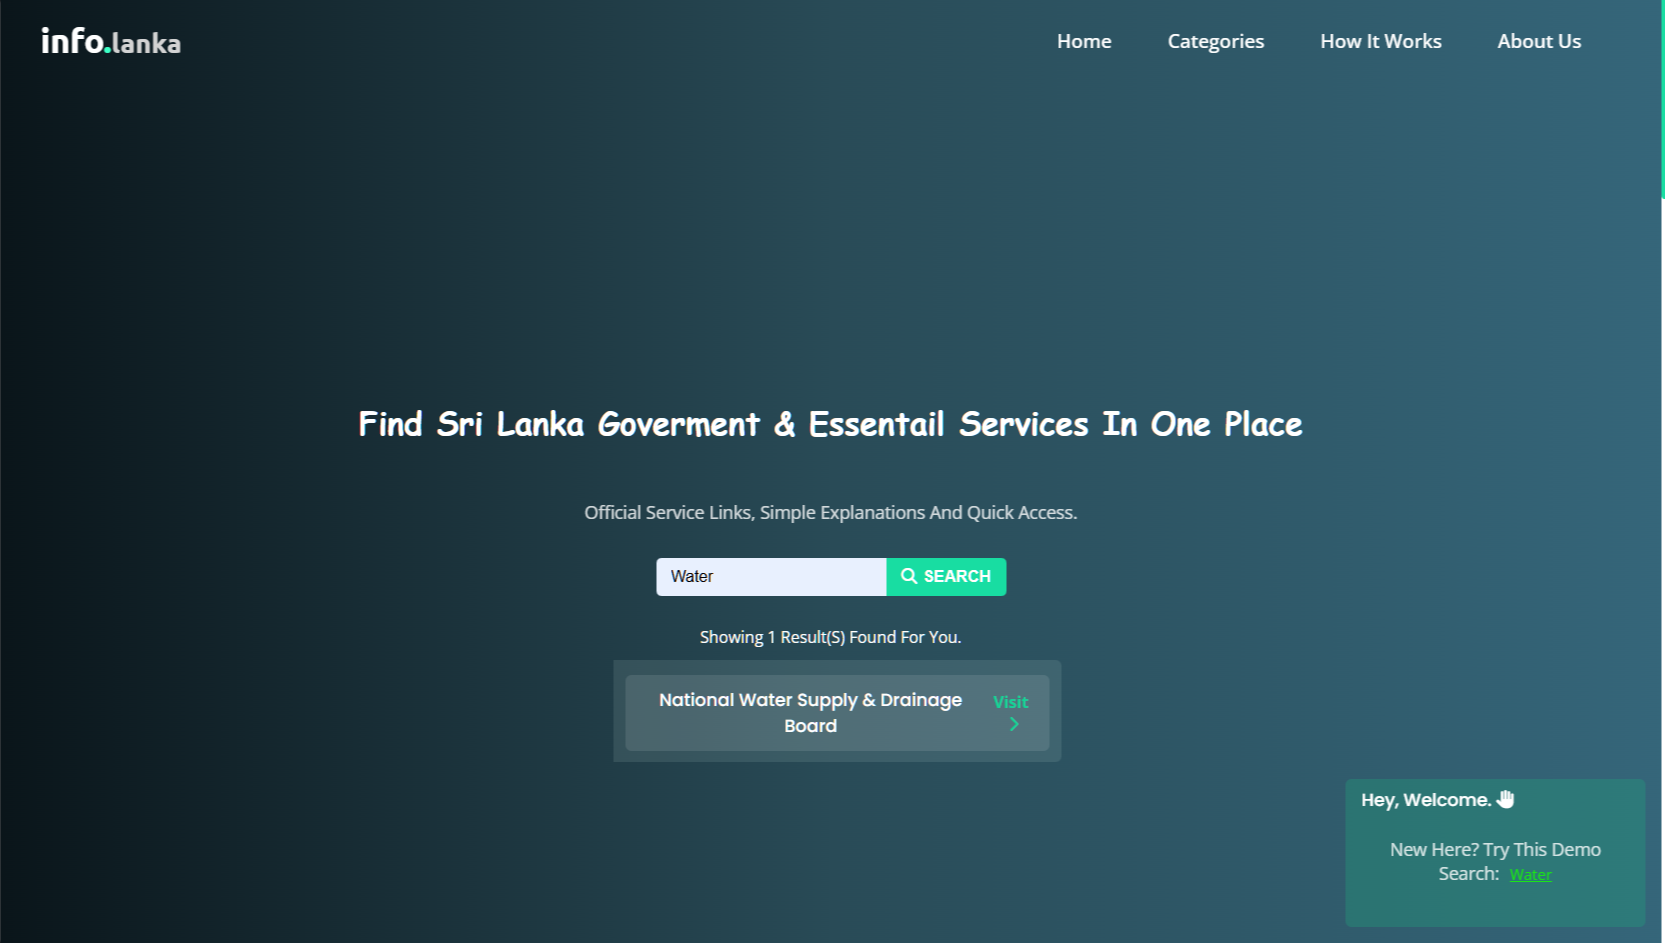
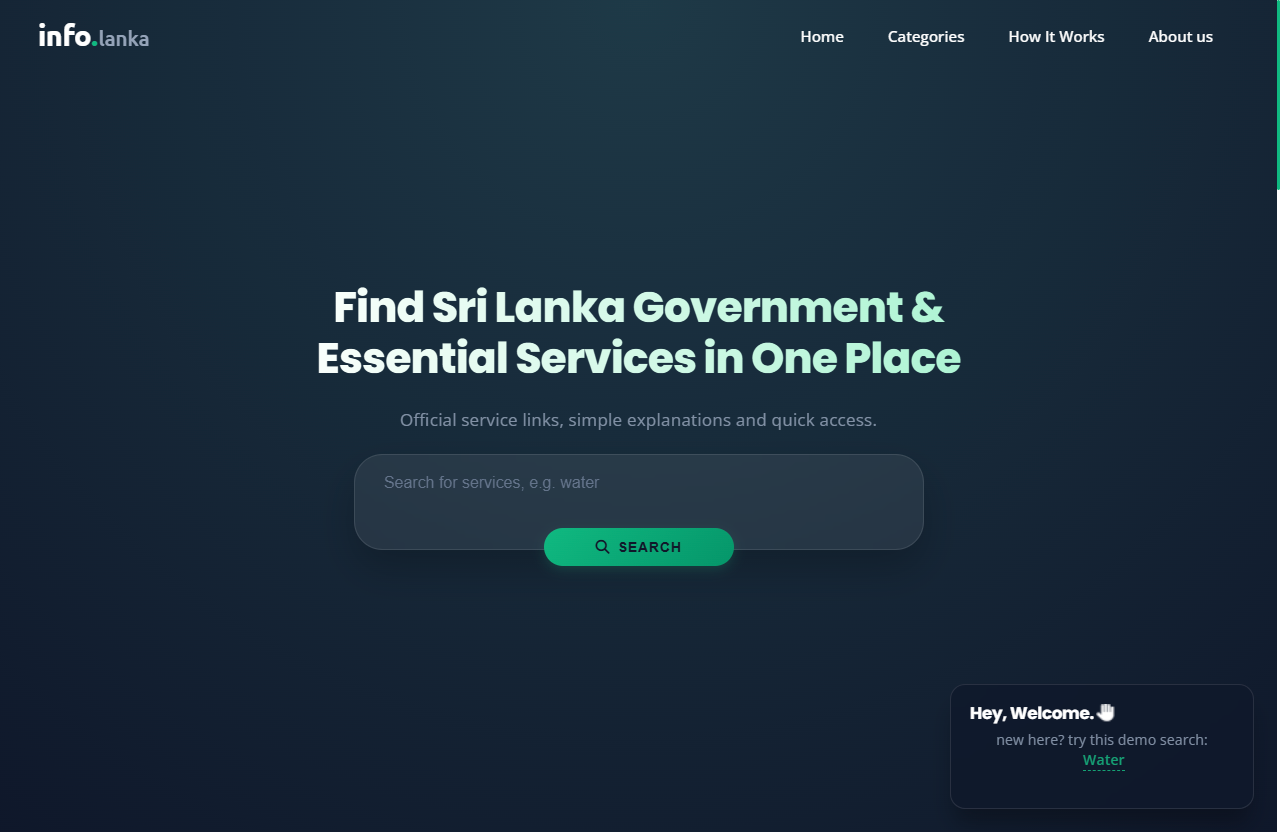
Update new-style.css to enhance organization and remove commented-out code

diff --git a/new-style.css b/new-style.css
@@ -5,7 +5,7 @@
   box-sizing: border-box;
   scroll-behavior: smooth;
   scroll-margin-top: 6rem; /* 2026 Spacing standard */
-  -webkit-font-smoothing: antialiased; /* අකුරු වඩාත් පැහැදිලි කිරීමට */
+  -webkit-font-smoothing: antialiased;
 }
 
 /* selection style */
@@ -32,14 +32,14 @@ body {
   height: auto;
   font-family: "Open Sans", sans-serif;
   font-weight: 400;
-  background-color: #f8fafc; /* පිරිසිදු off-white පසුබිමක් */
+  background-color: #f8fafc;
   color: var(--dark-text);
 }
 
 /* font families */
 h1 {
   font-family: "Ubuntu", sans-serif;
-  font-weight: 800; /* තවත් කැපී පෙනීමට */
+  font-weight: 800;
   letter-spacing: -0.5px;
 }
 h2,
@@ -54,10 +54,10 @@ h4 {
 /* 2026 Refined Root Variables */
 :root {
   --white: #ffffff;
-  --light-grey: #94a3b8; /* වඩාත් පිරිසිදු grey එකක් */
+  --light-grey: #94a3b8;
   --shadow-grey: #e2e8f0;
 
-  --dark-text: #1e293b; /* Soft Dark (ඇසට පහසුයි) */
+  --dark-text: #1e293b;
   --black: #0f172a;
 
   /* Premium Mint Green & Emerald Palette */
@@ -138,7 +138,6 @@ header.scrolled {
 .header-logo h1 {
   font-size: 1.9rem;
   text-transform: lowercase;
-  /* color: var(--blue-dark); */
 }
 .header-logo span {
   color: var(--green-medium);
@@ -239,7 +238,7 @@ header.scrolled {
 }
 
 .navbar-links a:hover::after {
-  width: 30px; /* Hover කරද්දී යටින් ඉරක් ඇඳීම */
+  width: 30px;
 }
 
 /* ==========================================
@@ -256,6 +255,7 @@ header.scrolled {
   padding-bottom: 60px;
   color: var(--white);
   text-align: center;
+
   /* Rich Cinematic Dark Blue-Grey Gradient */
   background: radial-gradient(circle at top, #1e3a47 0%, #0f172a 100%);
   position: relative;
@@ -269,13 +269,14 @@ header.scrolled {
   line-height: 1.2;
   letter-spacing: -1px;
   margin-bottom: 1.5rem;
-  font-family:
-    "Poppins", sans-serif; /* Replaced cursive with a clean professional font */
+  font-family: "Poppins", sans-serif;
   max-width: 800px;
   padding: 0 1.5rem;
+
   /* Text gradient effect */
   background: linear-gradient(to right, #ffffff, #a7f3d0);
   -webkit-background-clip: text;
+  background-clip: text;
   -webkit-text-fill-color: transparent;
 }
 
@@ -353,14 +354,11 @@ header.scrolled {
   align-items: center;
   justify-content: center;
   box-shadow: 0 4px 12px rgba(16, 185, 129, 0.2);
-
-  /* .search-section button { */
   height: 40px;
   width: 200px;
   margin: 0 auto;
   position: relative;
   top: 1.5rem;
-  /* } */
 }
 
 .search-section button:hover {
@@ -394,6 +392,7 @@ header.scrolled {
   align-items: flex-start;
   box-shadow: 0 20px 25px -5px rgba(0, 0, 0, 0.3);
   z-index: 999;
+
   /* Smooth entry animation */
   animation: popupSlideIn 0.5s cubic-bezier(0.34, 1.56, 0.64, 1) forwards;
 }
@@ -582,21 +581,15 @@ section h1 {
     0 10px 30px -10px rgba(148, 163, 184, 0.12),
     0 1px 3px rgba(148, 163, 184, 0.05);
   cursor: pointer;
-  transition: all 0.4s cubic-bezier(0.4, 0, 0.2, 1); /* Premium smooth interaction */
-  /* border-left: 6px solid var(--green-medium); Sleeker and cleaner accent line */
+  transition: all 0.4s cubic-bezier(0.4, 0, 0.2, 1);
   border-top: 1px solid #f1f5f9;
   border-right: 1px solid #f1f5f9;
   border-bottom: 1px solid #e2e8f0;
   position: relative;
-  /* max-height: 280px; */
   height: 100%;
 
-  /* Modern Hover Lift & Subtle Glow Effect */
   &:hover {
     transform: translateY(-5px);
-    /* box-shadow: 0 20px 40px -15px rgba(16, 185, 129, 0.15); */
-    /* border-left-color: var(--green-light); */
-    /* border: 2px solid var(--blue-light); */
   }
 
   h3 {
@@ -665,7 +658,6 @@ section h1 {
 .how-it-card {
   h4 {
     text-align: left;
-    /* margin: 20px 0 10px 0; */
     color: var(--blue-dark);
     border-top: 1px dashed #e2e8f0; /* Cleaner separator */
     padding-top: 6px;
@@ -710,57 +702,16 @@ section h1 {
   }
 }
 
-/* ==========================================================
-   2026 Responsive Bento Grid Breakpoints (Desktop/Tablet)
-   ========================================================== */
-/* @media (min-width: 768px) {
-  .why-this-cards {
-    grid-template-columns: repeat(2, 1fr); /* 2x2 Clean layout for Tablet/PC 
-  }
-
-  .how-it-cards {
-    grid-template-columns: repeat(3, 1fr);
-  }
-
-  /* Spanning the massive Suggested Tags card fully across the bottom row 
-  .how-it-cards .how-it-card:nth-child(4) {
-    grid-column: 1 / -1;
-    margin-top: 12px;
-  }
-}
-
-@media (min-width: 992px) {
-  /* Asymmetric Bento Layout for Why Choose Us section on high-end screens 
-  .why-this-cards {
-    grid-template-columns: repeat(3, 1fr);
-
-    .why-this-card:nth-child(1) {
-      grid-column: span 2; /* First card becomes double wide 
-    }
-    .why-this-card:nth-child(4) {
-      grid-column: span 2; /* Last card becomes double wide creating the bento wave 
-    }
-  }
-}
-
-footer  */
-/* ==========================================
-   2026 Modern Floating Island Footer
-   ========================================== */
 footer {
   /* Rich Luxurious Dark Gradient */
   background: linear-gradient(135deg, #091115 0%, #0f1f26 50%, #152932 100%);
-  /* margin: 1.5rem; Creating the floating desktop separation effect */
   padding: 5rem 2rem;
-  /* border-radius: 24px; Curved modern island edges */
-  border: 1px solid rgba(255, 255, 255, 0.05); /* Soft premium outer glow */
+  border: 1px solid rgba(255, 255, 255, 0.05);
   box-shadow: 0 25px 50px -12px rgba(0, 0, 0, 0.4);
 }
 
 /* Intelligent Responsive Grid Structure */
 .footer-container {
-  /* display: grid;
-  grid-template-columns: repeat(auto-fit, minmax(220px, 1fr)); */
   gap: 2.5rem;
   padding: 0;
   margin: 0;
@@ -772,9 +723,8 @@ footer {
 
 /* Expanding the main information panel to look premium */
 .footer-top {
-  grid-column: 1 / -1; /* spans across full width on top */
+  grid-column: 1 / -1;
   margin-bottom: 1.5rem;
-  /* border-bottom: 1px solid rgba(255, 255, 255, 0.08); */
   padding-bottom: 2rem;
 }
 
@@ -798,9 +748,7 @@ footer {
 .footer-top p {
   color: #94a3b8;
   opacity: 0.9;
-  /* margin: 12px 0 0 0; */
   font-size: 1.05rem;
-  /* max-width: 500px; */
 }
 
 /* ==========================================
@@ -836,11 +784,6 @@ footer {
   margin-right: 12px;
   font-size: 0.9rem;
 }
-
-/* Version icon subtle variation */
-/* .badge-levelup p:nth-child(1) i {
-  color: #fbbf24; /* Amber colored rocket 
-} */
 
 /* ==========================================
    Footer Cards & Modern Navigation Links
@@ -947,7 +890,6 @@ footer {
 /* Responsive adjustment for compact screens */
 @media (max-width: 768px) {
   footer {
-    /* margin: 1rem 0.5rem; */
     padding: 2.5rem 1.5rem;
     border-radius: 1rem 1rem 0 0;
   }
@@ -987,13 +929,11 @@ footer {
     margin: 0;
   }
 
-  /* 2026 Balanced Padding (Preventing huge blank pushing) */
   .home-section {
     padding-top: 180px;
     padding-bottom: 80px;
   }
 
-  /* Centered and slightly wider search block for tablets */
   .search-section {
     display: flex;
     max-width: 480px;
@@ -1002,39 +942,31 @@ footer {
     position: relative;
   }
 
-  /* Optimized universal padding for layout text breathability */
   .how-it-works,
   .why-this {
     padding: 2rem;
-    /* max-width: 1100px; */
     margin: 0 auto;
   }
 
-  /* Standardizing cards inside structural grids */
   .how-it-card,
   .why-this-card {
     border-radius: 16px;
   }
 
-  /* How It Works Grid Controller */
   .how-it-cards {
     display: grid;
-    grid-template-columns: repeat(2, 1fr); /* 2 Columns on Tablet */
-    /* gap: 20px; */
+    grid-template-columns: repeat(2, 1fr);
     justify-content: center;
   }
 
-  /* Making the massive 4th Card (Suggested Tags) take full row width */
   .how-it-cards .how-it-card:nth-child(4) {
     grid-column: 1 / -1;
     margin-top: 10px;
   }
-
   /* Why Choose Us Grid Controller */
   .why-this-cards {
     display: grid;
     grid-template-columns: repeat(2, 1fr);
-    /* gap: 20px; */
     justify-content: center;
   }
 }
@@ -1043,12 +975,10 @@ footer {
    Laptop / Small Desktop View (min-width: 992px)
    ========================================== */
 @media (min-width: 992px) {
-  /* Hiding mobile hamburger burger menu trigger */
   .menu-btns {
     display: none;
   }
 
-  /* Transforming side navigation panel to modern top row */
   .navbar-links {
     display: flex;
     flex-direction: row;
@@ -1057,8 +987,8 @@ footer {
     position: relative;
     top: 0;
     background: transparent !important;
-    backdrop-filter: none !important;
     -webkit-backdrop-filter: none !important;
+    backdrop-filter: none !important;
     box-shadow: none !important;
     padding: 0;
     width: auto;
@@ -1078,10 +1008,8 @@ footer {
     padding: 0.5rem 1.2rem;
     margin-right: 0.5rem;
     font-size: 1rem;
-    /* color: var(--blue-light); */
   }
 
-  /* Premium Underline Indicator Effect instead of sharp borders */
   .navbar-links a::after {
     bottom: -4px;
   }
@@ -1091,13 +1019,11 @@ footer {
     color: var(--green-light);
   }
 
-  /* Refined Hero spacing for large screens */
   .home-section {
     padding-top: 200px;
     padding-bottom: 120px;
   }
 
-  /* Ultra Premium Full-Width Capsule Search Bar */
   .search-section {
     display: flex;
     max-width: 600px;
@@ -1106,35 +1032,20 @@ footer {
     position: relative;
   }
 
-  /* Intelligent Structural Spacing */
-  .how-it-works,
-  .why-this {
-    /* padding: 5rem 2rem; */
-  }
-
-  /* How It Works 3 Column Flow on Desktop */
   .how-it-cards {
     grid-template-columns: repeat(3, 1fr);
     gap: 12px;
   }
 
-  /* Suggested tags still sits comfortably wide at the bottom */
   .how-it-cards .how-it-card:nth-child(4) {
     grid-column: 1 / -1;
-    /* margin-top: 16px; */
-  }
-
-  /* Premium Asymmetric Bento Grid Wave for Why Choose Us */
-  .why-this-cards {
-    /* grid-template-columns: repeat(3, 1fr); */
-    /* gap: 24px; */
   }
 
   .why-this-cards .why-this-card:nth-child(1) {
-    grid-column: span 2; /* Everything in one place card becomes double wide */
+    grid-column: span 2;
   }
   .why-this-cards .why-this-card:nth-child(4) {
-    grid-column: span 2; /* Time saving card becomes double wide balancing the design */
+    grid-column: span 2;
   }
 }
 
@@ -1142,10 +1053,8 @@ footer {
    Large Desktop View (min-width: 1200px)
    ========================================== */
 @media (min-width: 1200px) {
-  /* Restricting absolute max layout container width for flawless presentation */
   .how-it-works,
   .why-this {
     max-width: 1200px;
-    /* padding: 6rem 0; */
   }
 }
